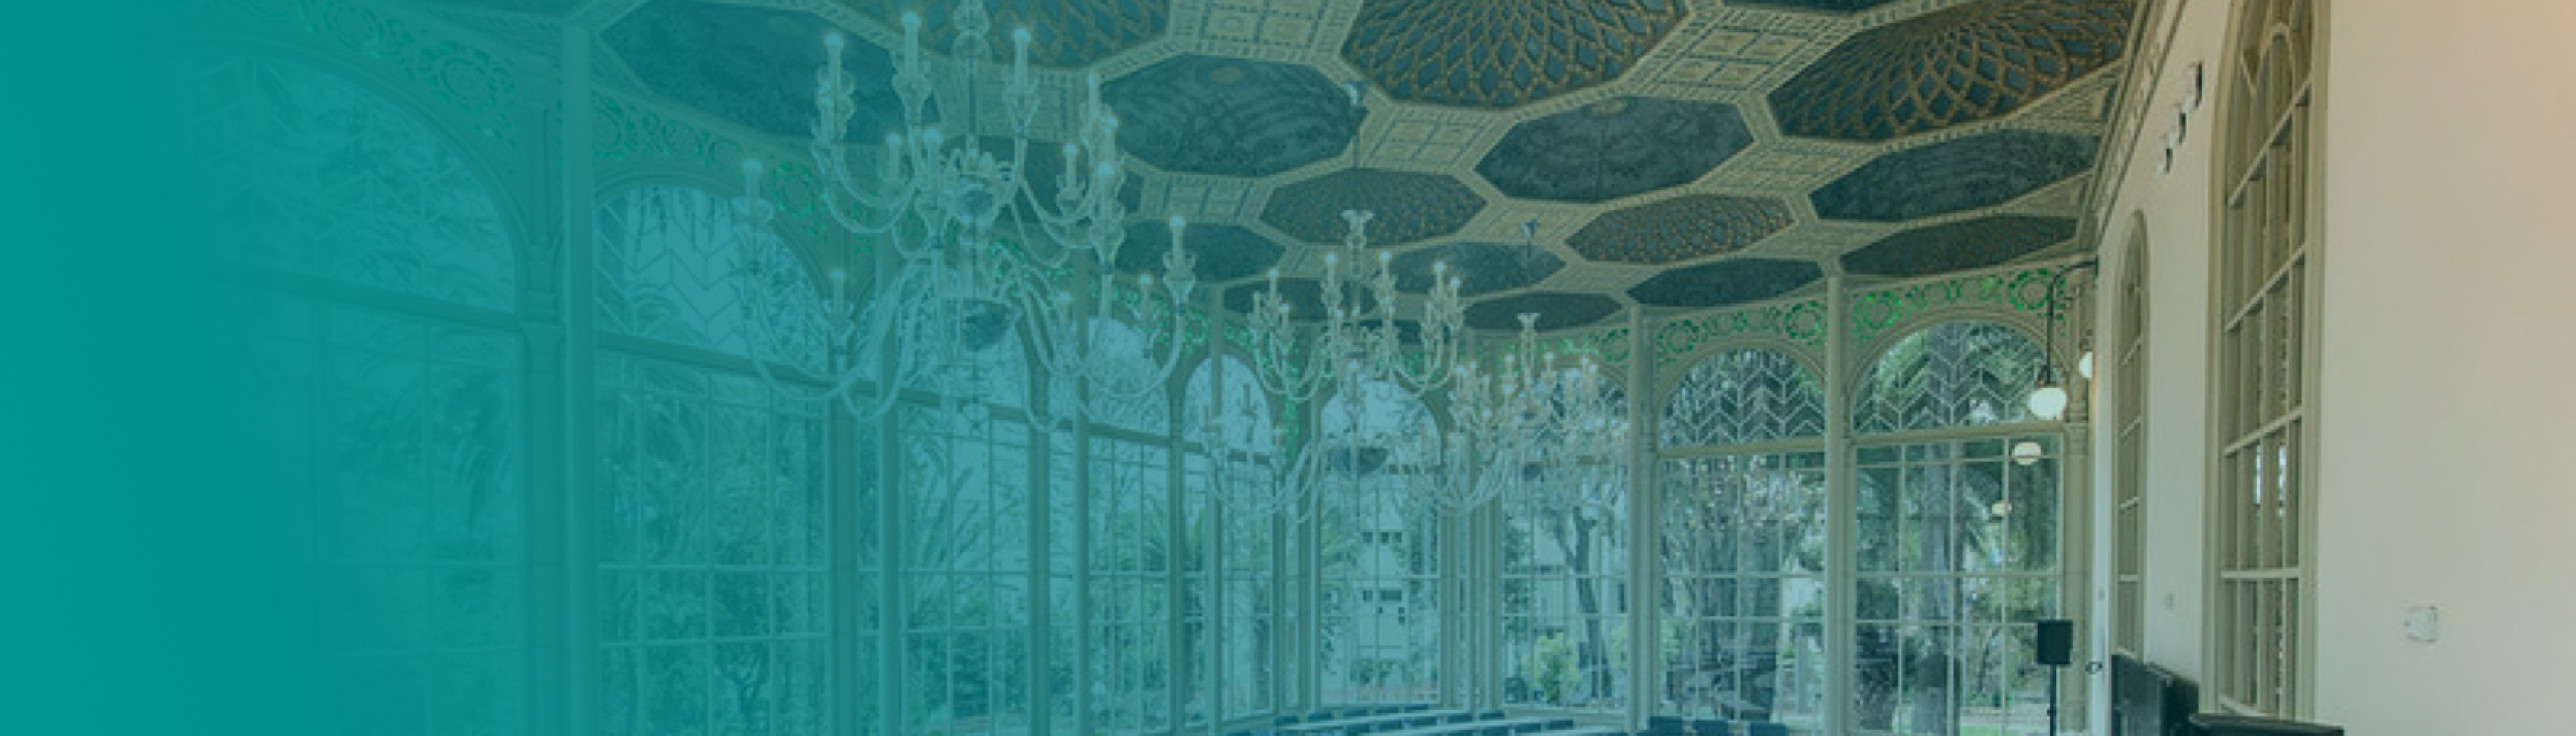
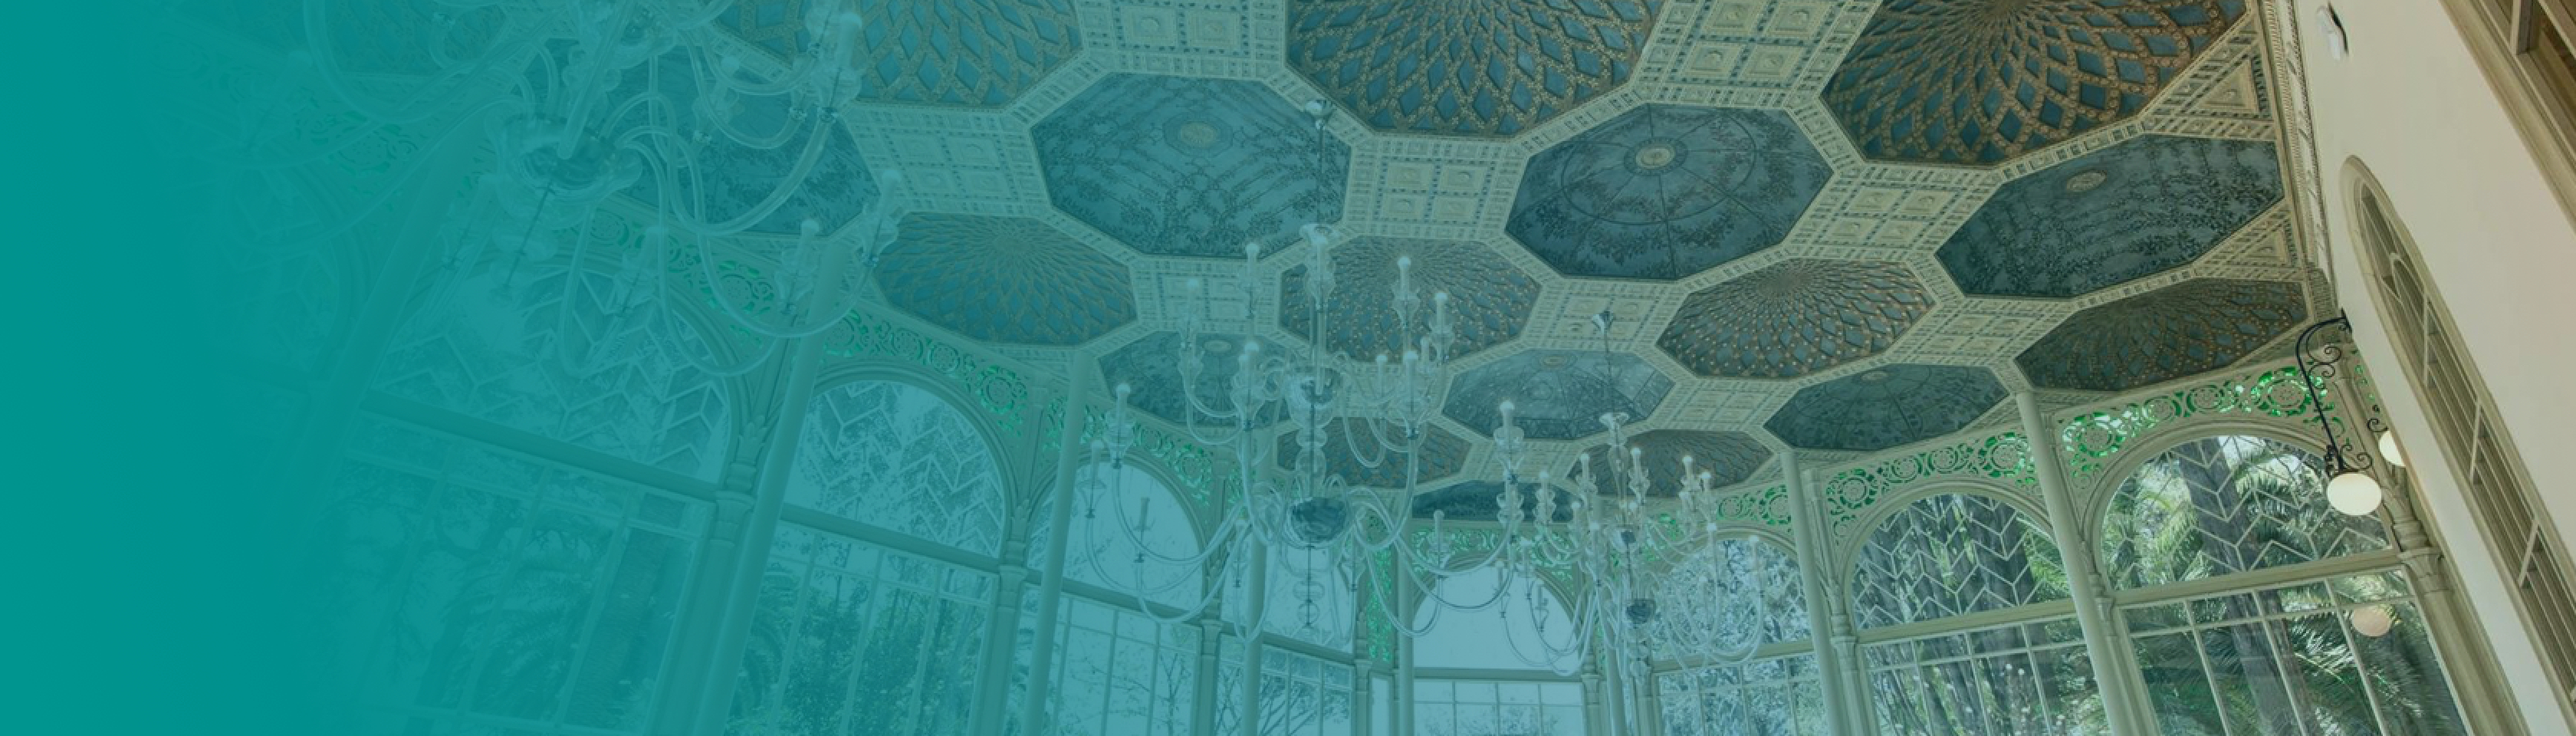
Modifiche

diff --git a/lbs_2015/pco/main.css b/lbs_2015/pco/main.css
@@ -395,7 +395,6 @@ h1 {
   font-family: 'Luiss Serif' !important;
   font-weight: 400;
   font-size: calc(1.625rem + 4.5vw);
-  font-size: 80px;
   line-height: 4.5rem;
 }
 
@@ -404,6 +403,13 @@ h1 {
     font-size: 5rem;
   }
 }
+
+@media (max-width: 767px) {
+  h1 {
+    line-height: 3.2rem;
+  }
+}
+
 
 h1.small {
   font-size: 4.5rem !important;
@@ -419,6 +425,12 @@ h2 {
 @media (min-width: 1200px) {
   h2 {
     font-size: 3.75rem;
+  }
+}
+
+@media (max-width: 767px) {
+  h2 {
+    line-height: 3rem;
   }
 }
 
@@ -13646,17 +13658,8 @@ body.theme-blue #nav-main .gsc-search-box-tools .gsc-search-box .gsc-input {
   background-size: cover;
   background-repeat: no-repeat;
   background-position: center center;
-  background-color: rgba(0, 58, 112, 0.3);
+  background-color: rgba(0, 58, 112, 0);
   background-blend-mode: multiply;
-}
-
-.box-cover-light_blue {
-  background: #0077c8 !important;
-  background: linear-gradient(
-    30deg,
-    #0077c8 0%,
-    rgba(0, 119, 200, 0) 100%
-  ) !important;
 }
 
 .exarea {

diff --git a/lbs_2015/pco/template-parts/section-flex-executive-jumbotron.php b/lbs_2015/pco/template-parts/section-flex-executive-jumbotron.php
@@ -24,7 +24,7 @@ $titolo_executive_flex_link[ 'en' ] = 'Find More About Our Flex Executive Progra
 
 <!-- Inizio template -->
 
-<div class="container-fluid px-0 py-80 box-cover-off flex-cover">
+<div class="container-fluid px-0 py-80 box-cover-page flex-cover">
     <div class="container">
         <div class="row">
             <div class="col-xs-12 col-lg-6">
@@ -33,7 +33,7 @@ $titolo_executive_flex_link[ 'en' ] = 'Find More About Our Flex Executive Progra
             </div>
         </div>
         <div class="row">
-            <div class="col-xs-12"><a class="button button__primary bg__white color__blue" href="<?php echo $executive_flex_link[ICL_LANGUAGE_CODE] ?>"><?php echo $titolo_executive_flex_link[ICL_LANGUAGE_CODE] ?></a>
+            <div class="col-xs-12"><a class="hp button button__primary bg__white color__blue" href="<?php echo $executive_flex_link[ICL_LANGUAGE_CODE] ?>"><?php echo $titolo_executive_flex_link[ICL_LANGUAGE_CODE] ?></a>
             </div>
         </div>
     </div>

diff --git a/lbs_2015/master.php b/lbs_2015/master.php
@@ -706,7 +706,7 @@ Creation Date: 12/20/2018
 
 	                    </div>
 
-
+                        <a name="altaformazione"></a>
 	                    <div class="row">
 	                        <div class="col-xs-12 my-24 my-md-48">
 	                            <h3><?php echo $altaformazione[ICL_LANGUAGE_CODE] ?></h3>
